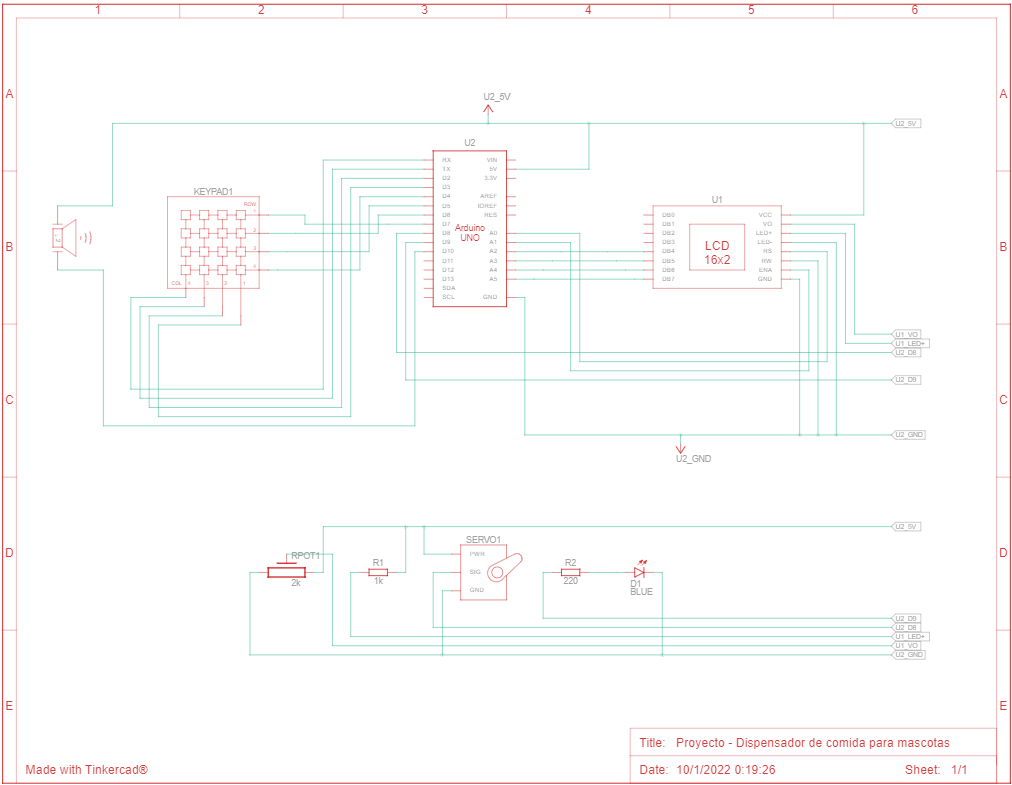
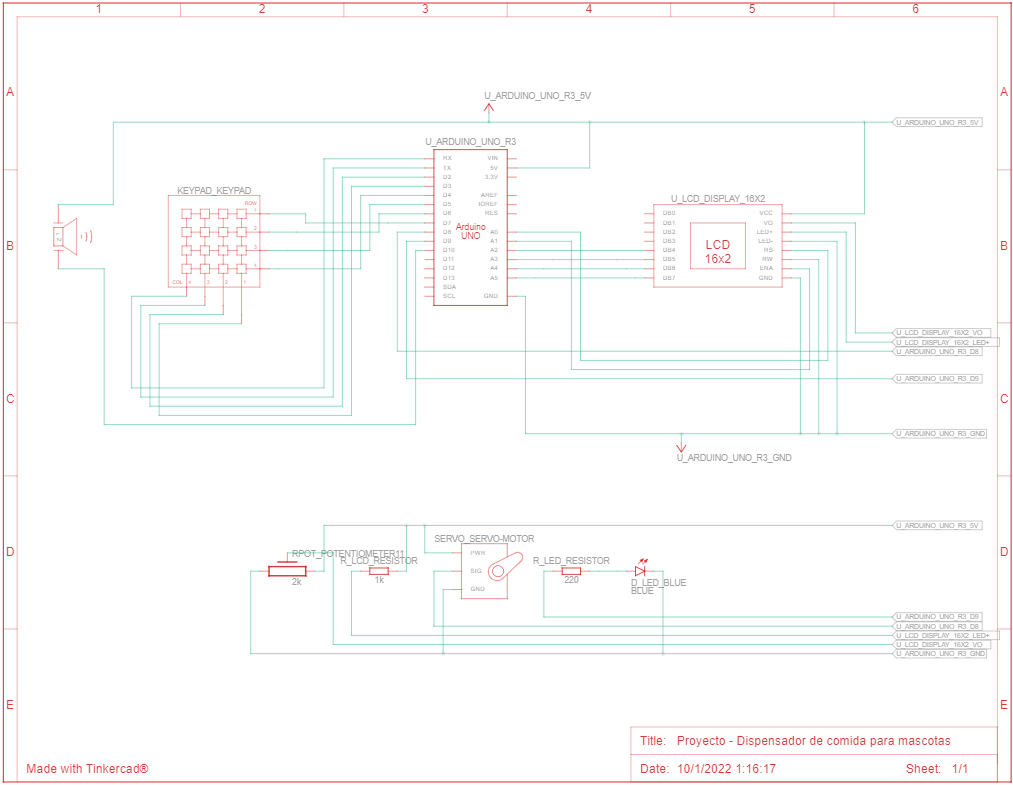
change schematic view image and fixed grammar

diff --git a/README.md b/README.md
@@ -7,7 +7,7 @@ This project has two options:
 * Option B: Mute or unmute the piezo buzzer.
 
 ## Demo
-If you want to see the demo of this proyect deployed, you can visit [Demo of the proyect](https://www.tinkercad.com/things/9iVNfFJeRKA)
+If you want to see the demo of this proyect deployed, you can visit [Demo of the proyect](https://www.tinkercad.com/things/9iVNfFJeRKA).
 
 ## Components list
 * Arduino Uno R3
